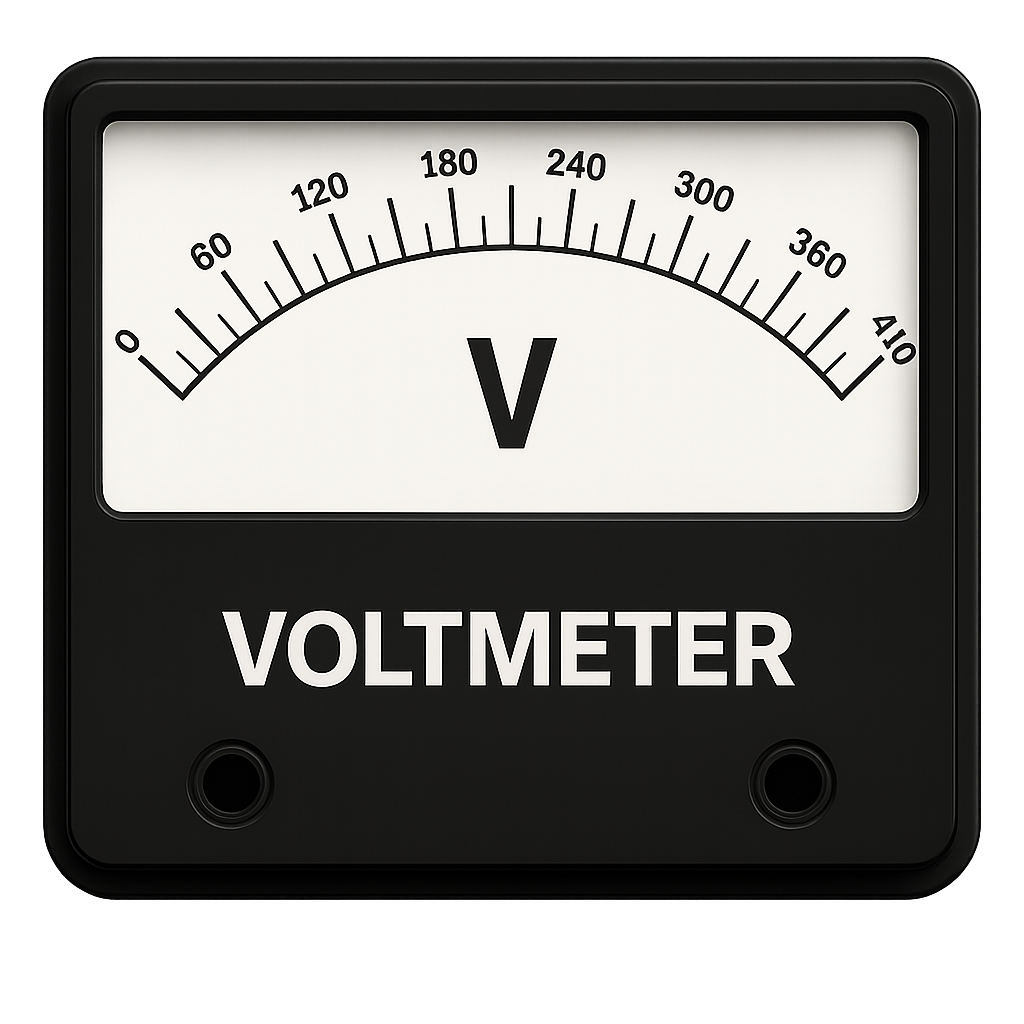
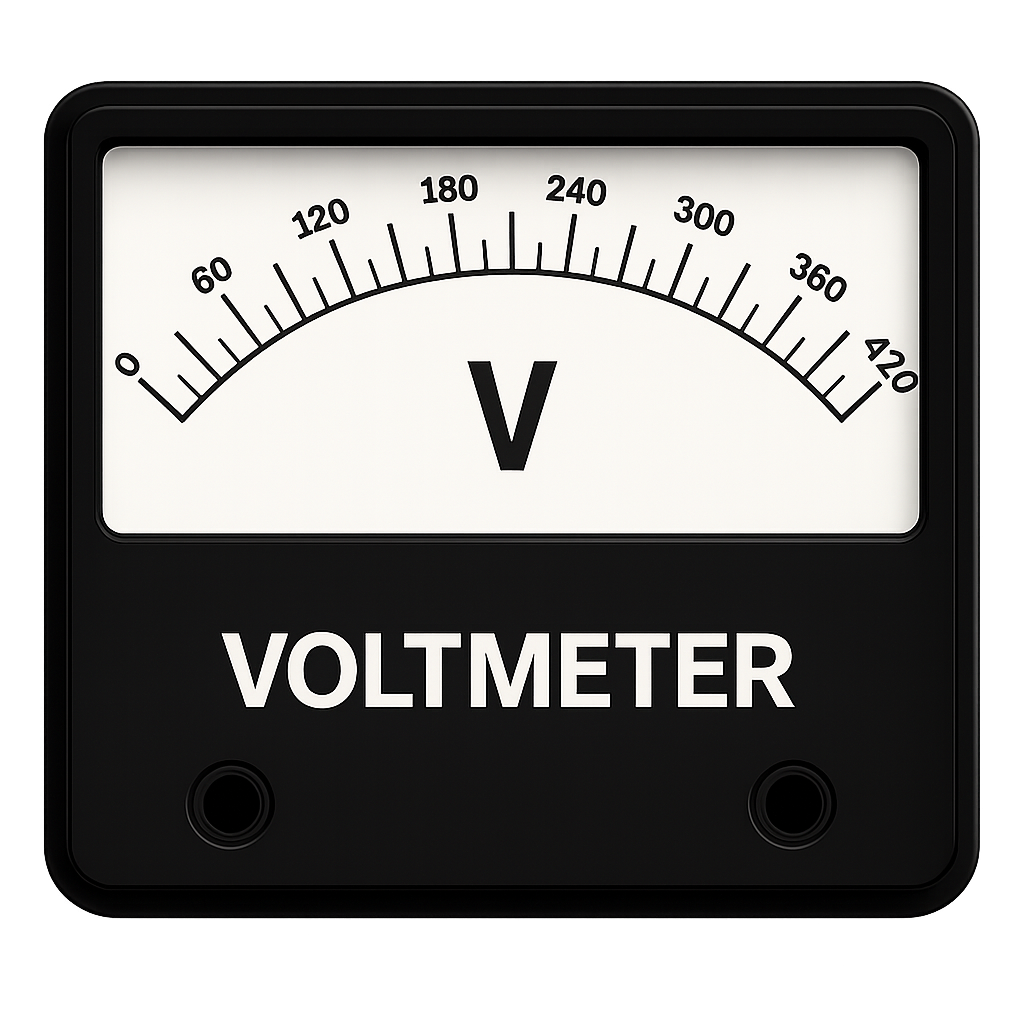
when mcb on then disable the button of autoconnect or check button

diff --git a/new-lab-exp-4-main/script.js b/new-lab-exp-4-main/script.js
@@ -805,6 +805,10 @@ if (graphCanvas) {
     if (mcbImg) {
       mcbImg.src = "images/mcb-off.png";
     }
+
+   // ✅ RE-ENABLE CHECK & AUTO CONNECT BUTTONS
+    enableCheckAndAutoConnect();
+
  
     // 🔥 RESET ARMATURE RHEOSTAT (STEP-4)
     armatureX = KNOB_START_X;
@@ -887,10 +891,53 @@ if (graphCanvas) {
       currentStepIndex = 0;
     }
  
- 
- 
   }
- 
+
+
+  // ==============================
+  // 🔒 DISABLE CHECK & AUTO CONNECT BUTTONS
+  // ==============================
+  function disableCheckAndAutoConnect() {
+    const checkBtn = document.getElementById("checkBtn");
+    const autoBtn = document.getElementById("auto");
+
+    if (checkBtn) {
+      checkBtn.disabled = true;
+      checkBtn.style.opacity = "0.5";
+      checkBtn.style.cursor = "not-allowed";
+      checkBtn.style.pointerEvents = "none";
+    }
+
+    if (autoBtn) {
+      autoBtn.disabled = true;
+      autoBtn.style.opacity = "0.5";
+      autoBtn.style.cursor = "not-allowed";
+      autoBtn.style.pointerEvents = "none";
+    }
+  }
+
+  // ==============================
+  // ✅ RE-ENABLE CHECK & AUTO CONNECT BUTTONS
+  // ==============================
+  function enableCheckAndAutoConnect() {
+    const checkBtn = document.getElementById("checkBtn");
+    const autoBtn = document.getElementById("auto");
+
+    if (checkBtn) {
+      checkBtn.disabled = false;
+      checkBtn.style.opacity = "1";
+      checkBtn.style.cursor = "pointer";
+      checkBtn.style.pointerEvents = "auto";
+    }
+
+    if (autoBtn) {
+      autoBtn.disabled = false;
+      autoBtn.style.opacity = "1";
+      autoBtn.style.cursor = "pointer";
+      autoBtn.style.pointerEvents = "auto";
+    }
+  }
+
  
  
   if (mcbImg) {
@@ -907,6 +954,9 @@ if (graphCanvas) {
           "⚠ DC SUPPLY has been turned OFF.",
           "MCB OFF"
         );
+
+          // ✅ RE-ENABLE CHECK & AUTO CONNECT BUTTONS
+        enableCheckAndAutoConnect();
         return;
       }
  
@@ -935,7 +985,9 @@ if (graphCanvas) {
  
  
       this.src = "images/mcb-on.png";
- 
+
+        // 🔒 DISABLE CHECK & AUTO CONNECT BUTTONS
+      disableCheckAndAutoConnect();
  
       if (starterHandle) {
         starterHandle.style.cursor = "grab";
@@ -1854,6 +1906,9 @@ if (guideActive) {
         speakBtn.setAttribute("aria-pressed", "false");
         speakBtn.querySelector(".speak-btn__label").textContent = "TAP TO LISTEN";
       }
+
+        // ✅ RE-ENABLE CHECK & AUTO CONNECT BUTTONS
+      enableCheckAndAutoConnect();
  
       // Remove all connections safely
       if (typeof jsPlumb.deleteEveryConnection === "function") {
